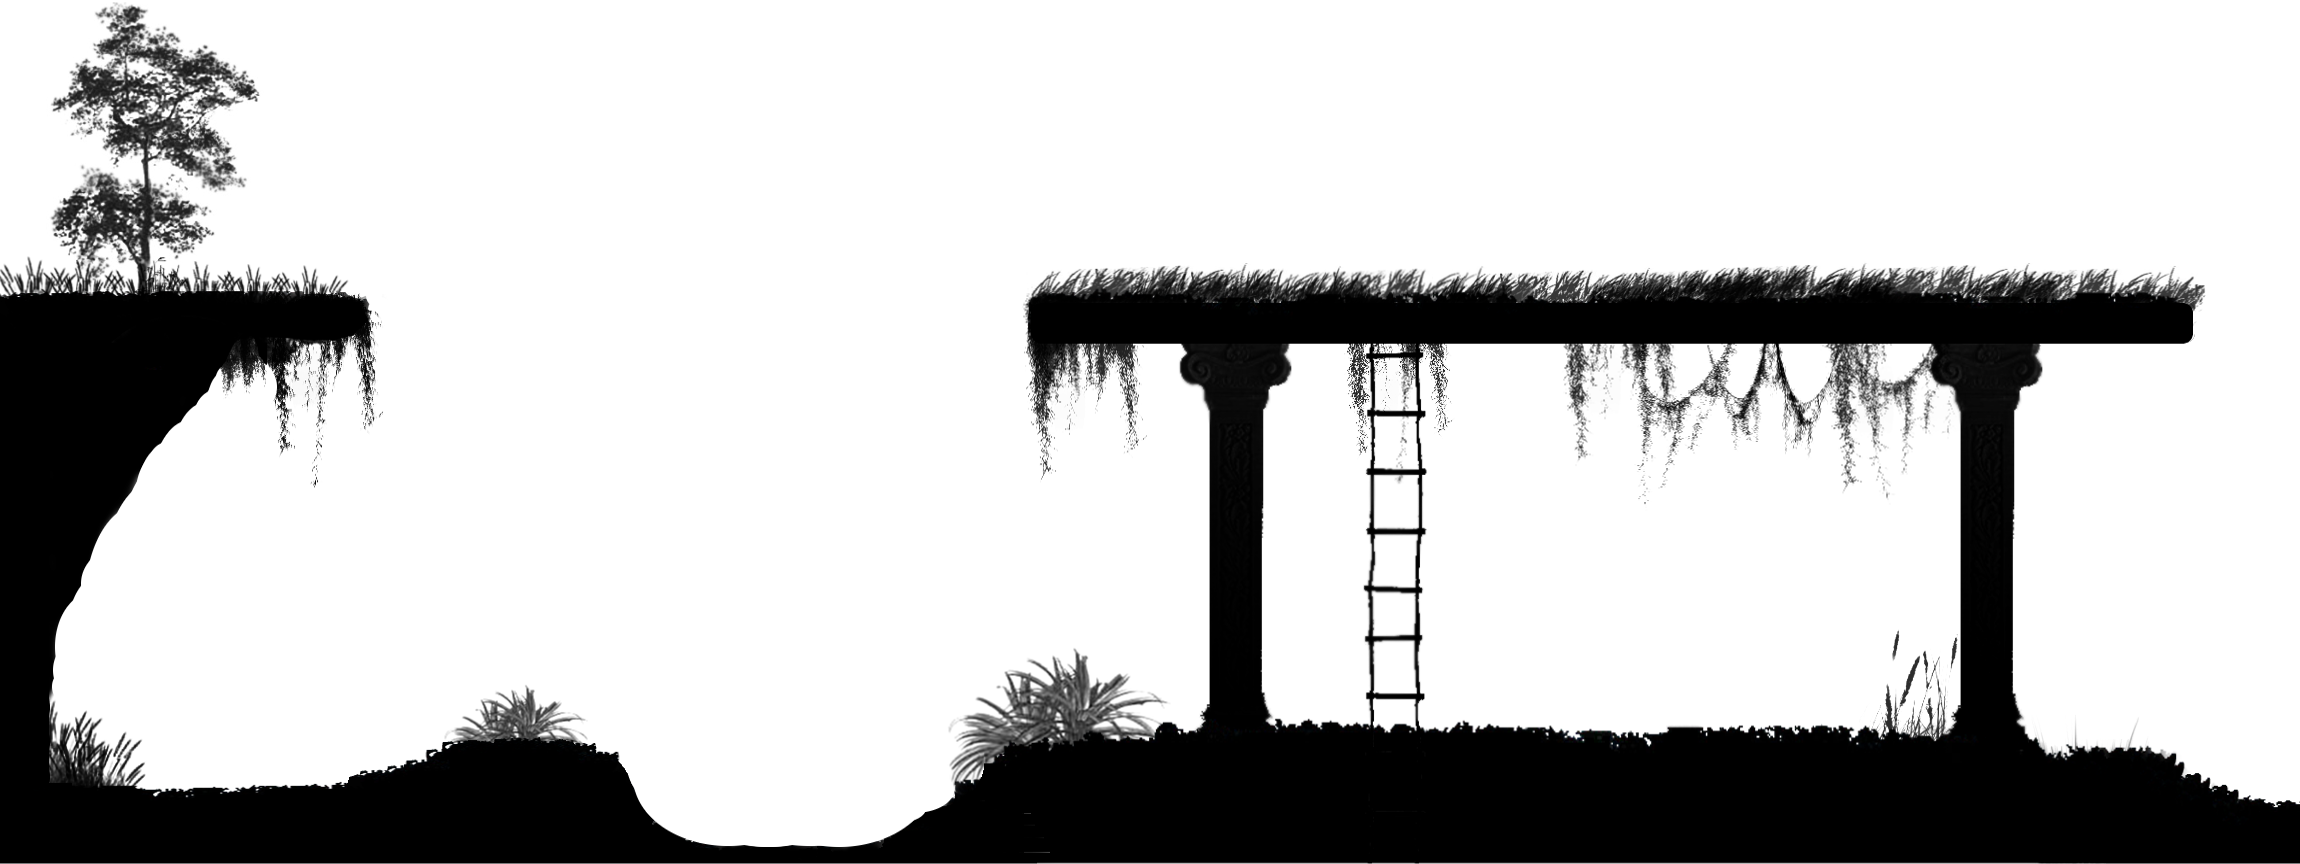
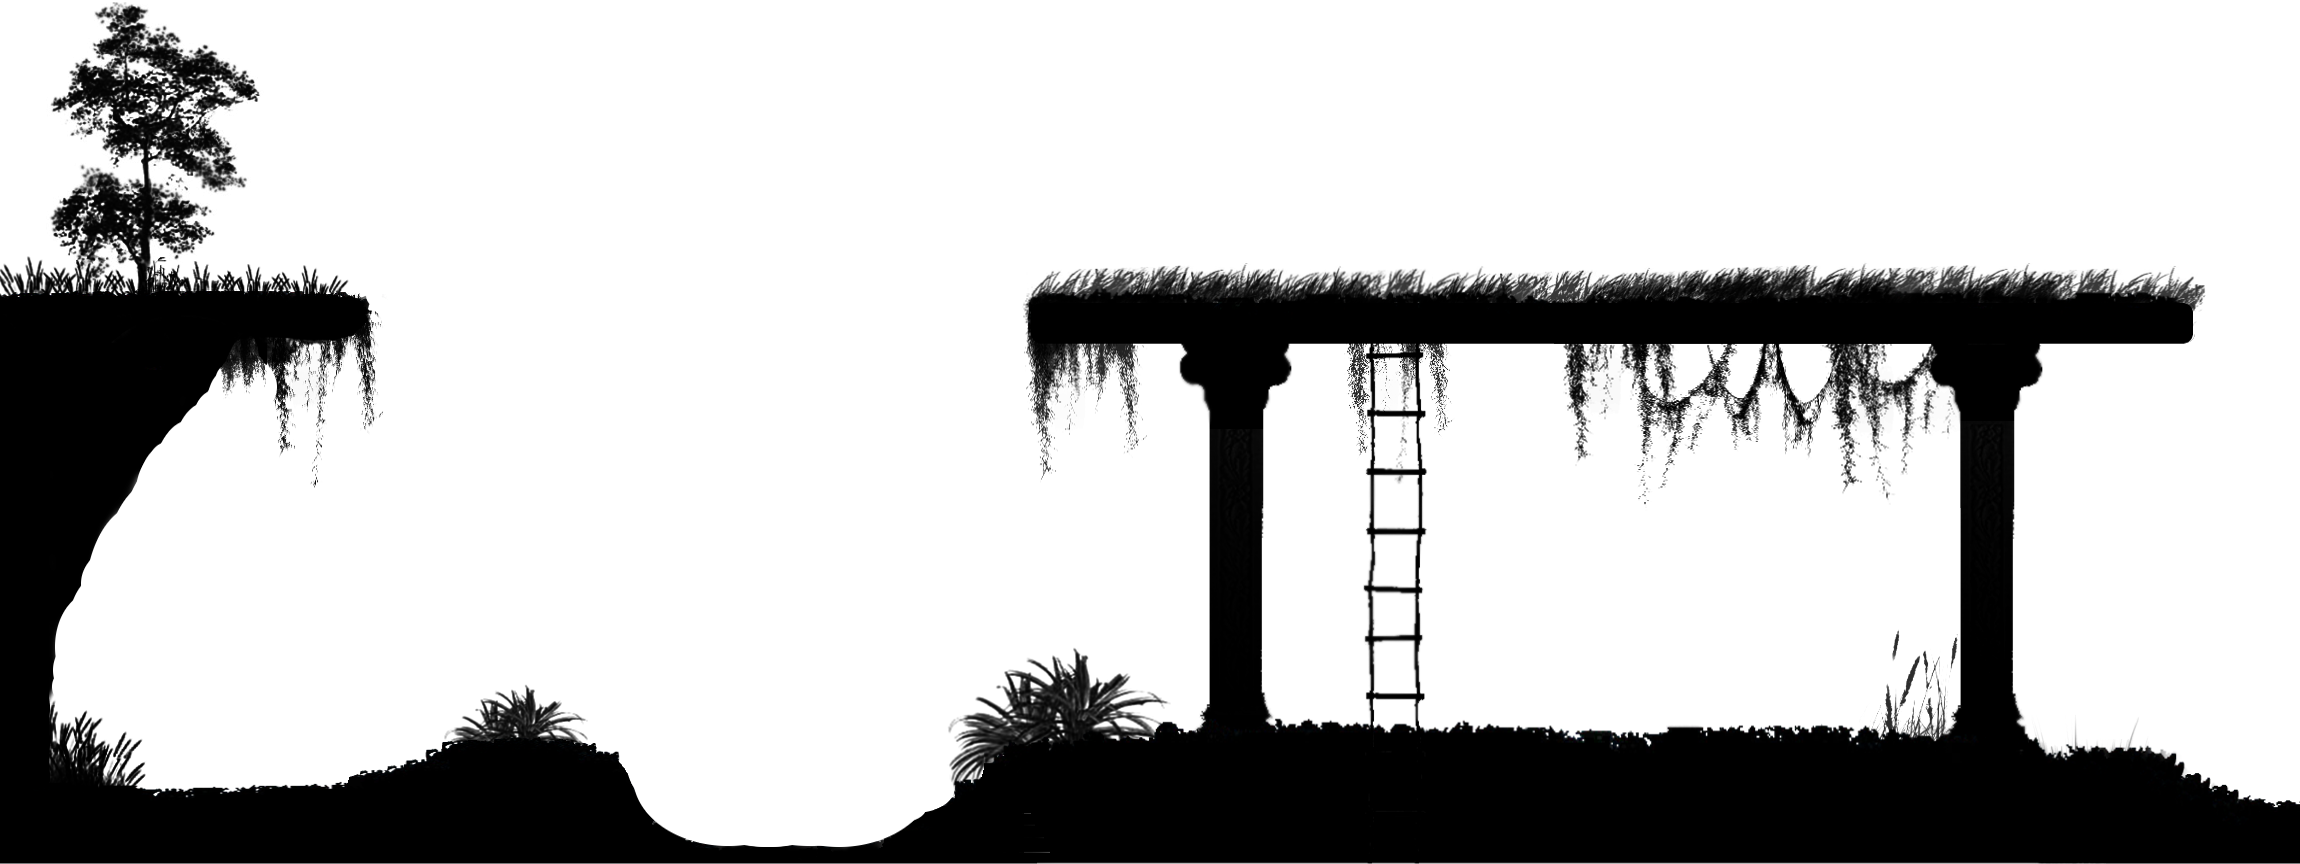
Leaves now have different scaling and non black color.

diff --git a/src/World/Environ/Leaves.cpp b/src/World/Environ/Leaves.cpp
@@ -72,6 +72,8 @@ void Leaves::processLeaves(CL_GraphicContext &gc, float windPower, LeafData &cur
     float scale = static_cast<float>(rand()% 55 + 50) / 100.0f;
     current.imageHandle.set_scale(scale, scale);
 
+    current.imageHandle.set_color(CL_Colorf(17/255.0f, 30/255.0f, 35/255.0f));
+
     current.speed_koef = rand()%70 + 50;
 }
 
